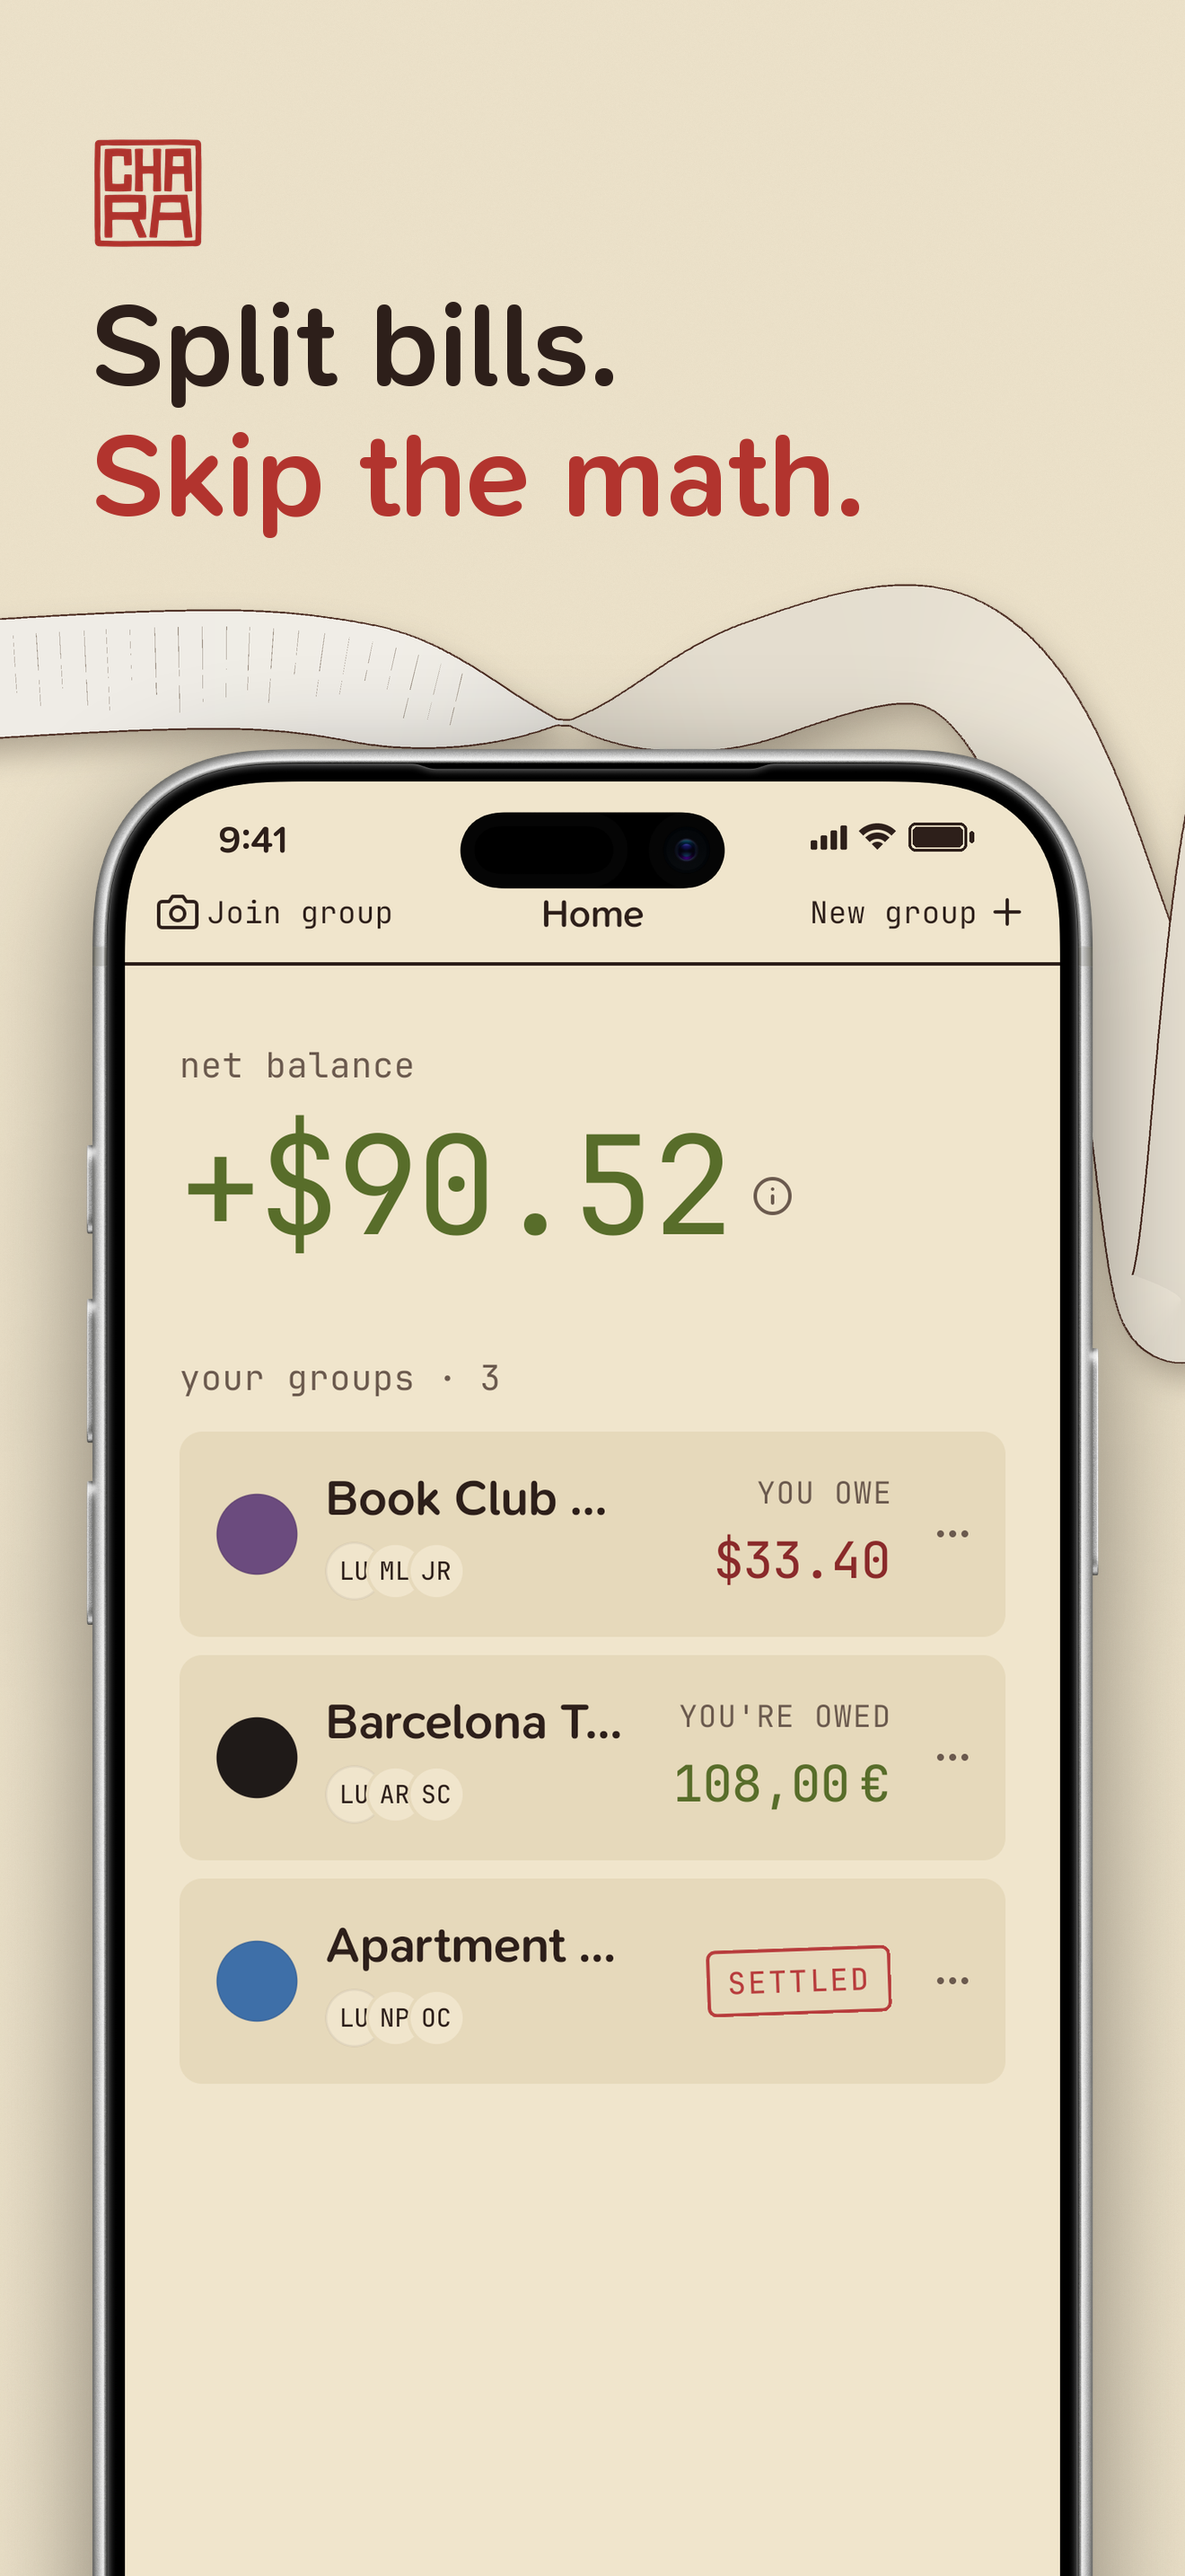
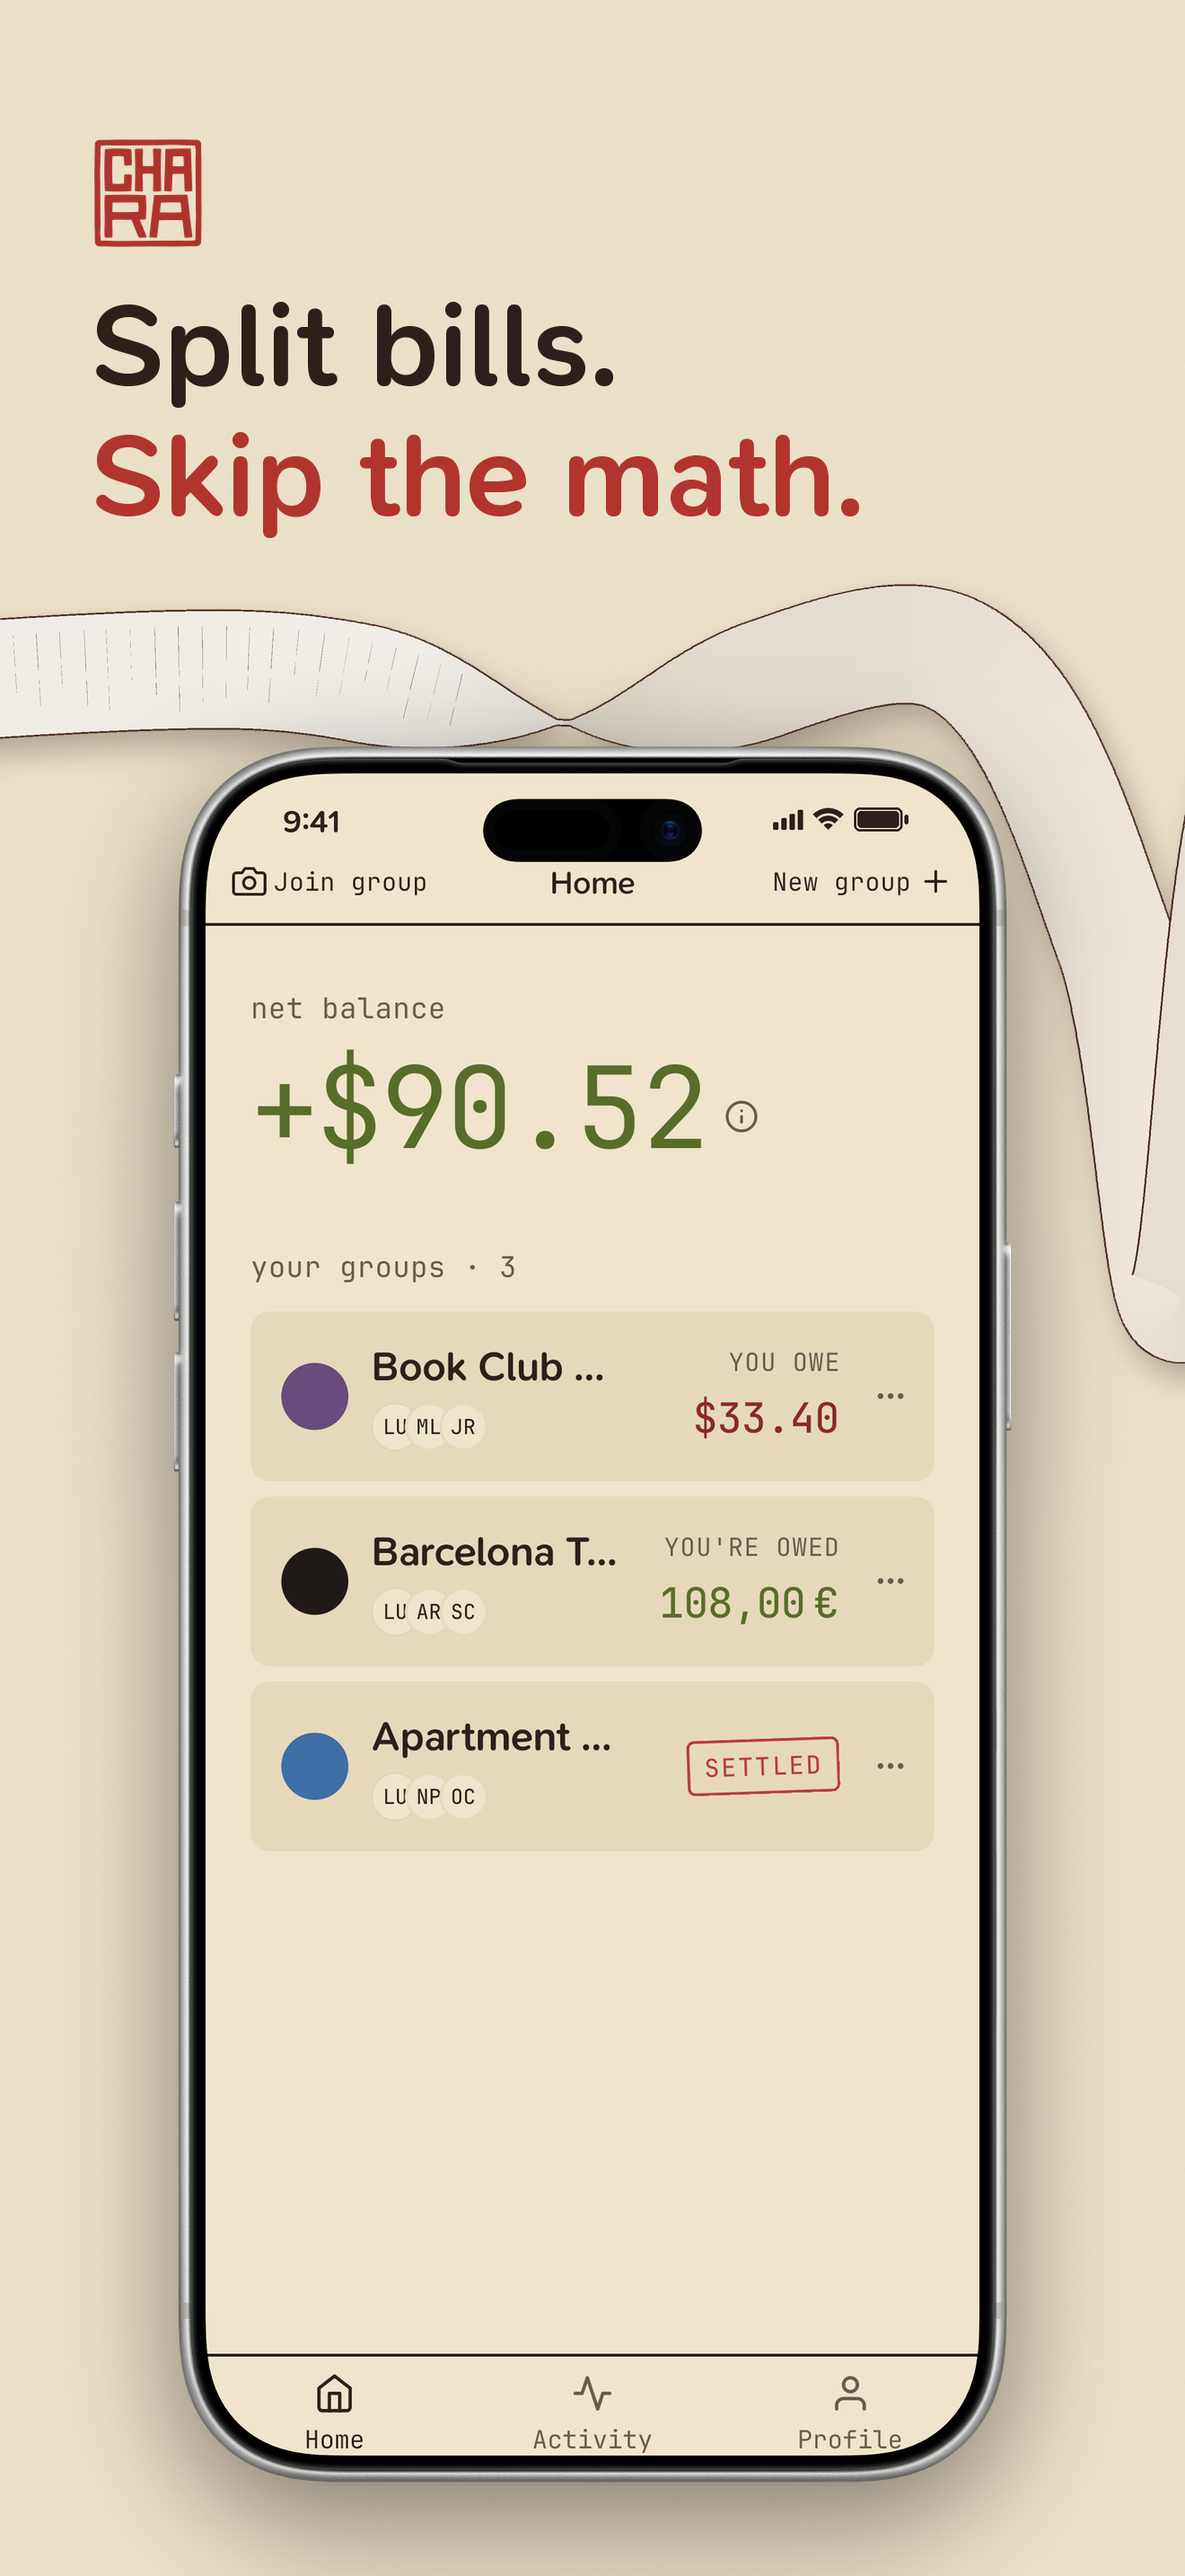
fix(store): fit the whole phone on every page so bottom buttons show
Phones and Play cards ran off the bottom edge, cutting off the tab bar and
primary buttons (Continue, Add expense, Settle). Each store's set now uses
one size: the largest that keeps the lowest-starting phone whole above a
bottom margin (Apple phone 1160 -> 960px, Play card 1080 -> 761px).

diff --git a/marketing/store-assets/build.py b/marketing/store-assets/build.py
@@ -158,12 +158,12 @@ def draw_copy(canvas, page, scale, x0, with_logo):
 APPLE_PHONE_W = 1160   # screen ~1040px wide: the UI reads at close to native size
 PLAY_CARD_W = 1080    # the capture's native width: no resampling of the UI
 
-def apple_layout(canvas, page, top):
-    p = framed_phone(page['capture'], CFG['bezel'], APPLE_PHONE_W)
+def apple_layout(canvas, page, top, width):
+    p = framed_phone(page['capture'], CFG['bezel'], width)
     drop_shadow(canvas, p, ((APPLE[0] - p.width) // 2, top))
 
-def play_layout(canvas, page, top):
-    c = ui_card(page['capture'], PLAY_CARD_W)
+def play_layout(canvas, page, top, width):
+    c = ui_card(page['capture'], width)
     drop_shadow(canvas, c, ((PLAY[0] - c.width) // 2, top), blur=40, offset=(0, 28))
 
 # ---------- main ----------
@@ -183,12 +183,19 @@ def render(pages, store):
     tops = [bottom + gap for _, _, bottom in copy]
     tape = ribbon.Ribbon(tops, size)
     layout = apple_layout if store == 'apple' else play_layout
+    # One size for the whole set: the largest that keeps the lowest-starting
+    # phone whole, so no page cuts off the bottom of the UI (tab bar, buttons).
+    if store == 'apple':
+        max_w, (bw, bh) = APPLE_PHONE_W, Image.open(os.path.join(HERE, CFG['bezel'])).size
+    else:
+        max_w, (bw, bh) = PLAY_CARD_W, capture(pages[0]['capture']).size
+    width = min(max_w, (H - max(tops) - round(90 * scale)) * bw // bh)
     out = []
     for k, (page, (layer, area, _)) in enumerate(zip(pages, copy)):
         canvas = background(size, page['bg'])
         ribbon.compose(canvas, tape, k)
         canvas.alpha_composite(layer)
-        layout(canvas, page, tops[k])
+        layout(canvas, page, tops[k], width)
         out.append((canvas.convert('RGB'), area))
     return out
 
